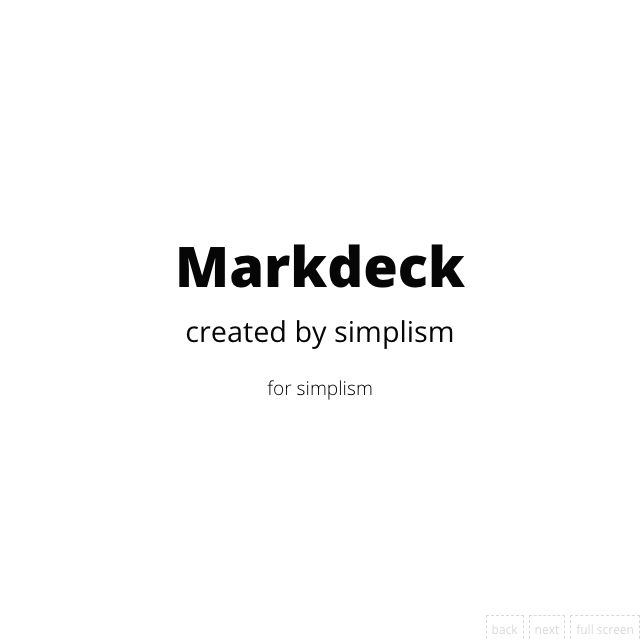
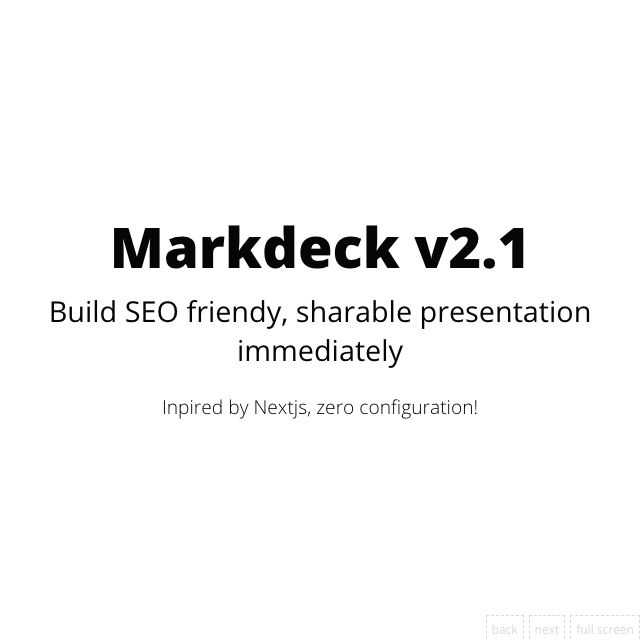
tend to deploy

Changed region(s): [[0.0625, 0.3438, 0.9375, 0.5625], [0.25, 0.5938, 0.75, 0.6562]]

diff --git a/demo/docs/deck/presentation/2.html b/demo/docs/deck/presentation/2.html
@@ -1,8 +1,8 @@
-<html lang="en"><head><meta charset="utf-8"><meta name="viewport" content="width=device-width,initial-scale=1"><meta name="referrer" content="no-referrer-when-downgrade"><title>Presentation | 2</title><meta property="og:type" content="article"><meta property="og:title" content="Presentation | 2"><meta property="og:site_name" content="markdeck"><meta property="og:image" content="https://raw.githubusercontent.com/amazingandyyy/markdeck/master/demo/docs/deck/presentation/meta/2.jpeg?1565638490806"><meta property="og:image:type" content="image/png"><meta name="twitter:card" content="summary_large_image"><meta name="twitter:image" content="https://raw.githubusercontent.com/amazingandyyy/markdeck/master/demo/docs/deck/presentation/meta/2.jpeg?1565638490806"><meta name="twitter:title" content="Presentation | 2"><meta property="article:modified_time" content="Mon Aug 12 2019 12:34:50 GMT-0700 (Pacific Daylight Time)"><meta property="article:publisher" content="https://amazingandyyy.com/markdeck"><meta name="twitter:site" content="@markdeck"><meta name="twitter:creator" content="@markdeck"><meta property="og:image:width" content="640"><meta property="og:image:height" content="640"><meta property="og:description" content="# Markdeck
+<html lang="en"><head><meta charset="utf-8"><meta name="viewport" content="width=device-width,initial-scale=1"><meta name="referrer" content="no-referrer-when-downgrade"><title>Presentation | 2</title><meta property="og:type" content="article"><meta property="og:title" content="Presentation | 2"><meta property="og:site_name" content="markdeck"><meta property="og:image" content="https://raw.githubusercontent.com/amazingandyyy/markdeck/master/demo/docs/deck/presentation/meta/2.jpeg?1565638773024"><meta property="og:image:type" content="image/png"><meta name="twitter:card" content="summary_large_image"><meta name="twitter:image" content="https://raw.githubusercontent.com/amazingandyyy/markdeck/master/demo/docs/deck/presentation/meta/2.jpeg?1565638773024"><meta name="twitter:title" content="Presentation | 2"><meta property="article:modified_time" content="Mon Aug 12 2019 12:39:33 GMT-0700 (Pacific Daylight Time)"><meta property="article:publisher" content="https://amazingandyyy.com/markdeck"><meta name="twitter:site" content="@markdeck"><meta name="twitter:creator" content="@markdeck"><meta property="og:image:width" content="640"><meta property="og:image:height" content="640"><meta property="og:description" content="# Markdeck v2.1
 
-## created by simplism
+## Build SEO friendy, sharable presentation immediately
  
-for simplism
+Inpired by Nextjs, zero configuration!
 
 ---
 
@@ -16,6 +16,16 @@ not
 
 ---
 
+## zero configuration
+
+```shell
+$ npm i -g @amazingandyyy/markdeck
+$ deck init
+$ deck
+```
+
+---
+
 *build by*
 
 # Andy
@@ -24,15 +34,6 @@ not
 
 [Github](https://github.com/amazingandyyy) *or* [Website](https://amazingandyyy.com)
 
----
-
-## zero configuration
-
-```shell
-$ npm i -g @amazingandyyy/markdeck
-$ deck init
-$ deck
-```
 ---
 
 Open Source On
@@ -66,4 +67,7 @@ Open Source On
             function goForward(loc) {
               const url = getCurrentPath()+"/"+loc;
               window.location.href = url;
-            }</script></head><body id="page-2"><div id="displayer"><div><p><em>build by</em></p><h1 id="andy">Andy</h1><p><img src="images/profile.jpg" alt="image"></p><p><a href="https://github.com/amazingandyyy">Github</a> <em>or</em> <a href="https://amazingandyyy.com">Website</a></p></div></div><div id="btn-container"><a class="btn" onclick='goBack("1.html")'>back</a> <a class="btn" onclick='goForward("3.html")'>next</a> <a class="btn" onclick="toggleFullScreen()">full screen</a></div></body></html>
+            }</script></head><body id="page-2"><div id="displayer"><div><h2 id="zeroconfiguration">zero configuration</h2><pre><code class="shell language-shell">$ npm i -g @amazingandyyy/markdeck
+$ deck init
+$ deck
+</code></pre></div></div><div id="btn-container"><a class="btn" onclick='goBack("1.html")'>back</a> <a class="btn" onclick='goForward("3.html")'>next</a> <a class="btn" onclick="toggleFullScreen()">full screen</a></div></body></html>

diff --git a/demo/docs/deck/presentation/3.html b/demo/docs/deck/presentation/3.html
@@ -1,8 +1,8 @@
-<html lang="en"><head><meta charset="utf-8"><meta name="viewport" content="width=device-width,initial-scale=1"><meta name="referrer" content="no-referrer-when-downgrade"><title>Presentation | 3</title><meta property="og:type" content="article"><meta property="og:title" content="Presentation | 3"><meta property="og:site_name" content="markdeck"><meta property="og:image" content="https://raw.githubusercontent.com/amazingandyyy/markdeck/master/demo/docs/deck/presentation/meta/3.jpeg?1565638490810"><meta property="og:image:type" content="image/png"><meta name="twitter:card" content="summary_large_image"><meta name="twitter:image" content="https://raw.githubusercontent.com/amazingandyyy/markdeck/master/demo/docs/deck/presentation/meta/3.jpeg?1565638490810"><meta name="twitter:title" content="Presentation | 3"><meta property="article:modified_time" content="Mon Aug 12 2019 12:34:50 GMT-0700 (Pacific Daylight Time)"><meta property="article:publisher" content="https://amazingandyyy.com/markdeck"><meta name="twitter:site" content="@markdeck"><meta name="twitter:creator" content="@markdeck"><meta property="og:image:width" content="640"><meta property="og:image:height" content="640"><meta property="og:description" content="# Markdeck
+<html lang="en"><head><meta charset="utf-8"><meta name="viewport" content="width=device-width,initial-scale=1"><meta name="referrer" content="no-referrer-when-downgrade"><title>Presentation | 3</title><meta property="og:type" content="article"><meta property="og:title" content="Presentation | 3"><meta property="og:site_name" content="markdeck"><meta property="og:image" content="https://raw.githubusercontent.com/amazingandyyy/markdeck/master/demo/docs/deck/presentation/meta/3.jpeg?1565638773029"><meta property="og:image:type" content="image/png"><meta name="twitter:card" content="summary_large_image"><meta name="twitter:image" content="https://raw.githubusercontent.com/amazingandyyy/markdeck/master/demo/docs/deck/presentation/meta/3.jpeg?1565638773029"><meta name="twitter:title" content="Presentation | 3"><meta property="article:modified_time" content="Mon Aug 12 2019 12:39:33 GMT-0700 (Pacific Daylight Time)"><meta property="article:publisher" content="https://amazingandyyy.com/markdeck"><meta name="twitter:site" content="@markdeck"><meta name="twitter:creator" content="@markdeck"><meta property="og:image:width" content="640"><meta property="og:image:height" content="640"><meta property="og:description" content="# Markdeck v2.1
 
-## created by simplism
+## Build SEO friendy, sharable presentation immediately
  
-for simplism
+Inpired by Nextjs, zero configuration!
 
 ---
 
@@ -16,6 +16,16 @@ not
 
 ---
 
+## zero configuration
+
+```shell
+$ npm i -g @amazingandyyy/markdeck
+$ deck init
+$ deck
+```
+
+---
+
 *build by*
 
 # Andy
@@ -24,15 +34,6 @@ not
 
 [Github](https://github.com/amazingandyyy) *or* [Website](https://amazingandyyy.com)
 
----
-
-## zero configuration
-
-```shell
-$ npm i -g @amazingandyyy/markdeck
-$ deck init
-$ deck
-```
 ---
 
 Open Source On
@@ -66,7 +67,4 @@ Open Source On
             function goForward(loc) {
               const url = getCurrentPath()+"/"+loc;
               window.location.href = url;
-            }</script></head><body id="page-3"><div id="displayer"><div><h2 id="zeroconfiguration">zero configuration</h2><pre><code class="shell language-shell">$ npm i -g @amazingandyyy/markdeck
-$ deck init
-$ deck
-</code></pre></div></div><div id="btn-container"><a class="btn" onclick='goBack("2.html")'>back</a> <a class="btn" onclick='goForward("4.html")'>next</a> <a class="btn" onclick="toggleFullScreen()">full screen</a></div></body></html>
+            }</script></head><body id="page-3"><div id="displayer"><div><p><em>build by</em></p><h1 id="andy">Andy</h1><p><img src="images/profile.jpg" alt="image"></p><p><a href="https://github.com/amazingandyyy">Github</a> <em>or</em> <a href="https://amazingandyyy.com">Website</a></p></div></div><div id="btn-container"><a class="btn" onclick='goBack("2.html")'>back</a> <a class="btn" onclick='goForward("4.html")'>next</a> <a class="btn" onclick="toggleFullScreen()">full screen</a></div></body></html>

diff --git a/demo/docs/deck/presentation/index.html b/demo/docs/deck/presentation/index.html
@@ -1,8 +1,8 @@
-<html lang="en"><head><meta charset="utf-8"><meta name="viewport" content="width=device-width,initial-scale=1"><meta name="referrer" content="no-referrer-when-downgrade"><title>Presentation | Welcome</title><meta property="og:type" content="article"><meta property="og:title" content="Presentation | Welcome"><meta property="og:site_name" content="markdeck"><meta property="og:image" content="https://raw.githubusercontent.com/amazingandyyy/markdeck/master/demo/docs/deck/presentation/meta/index.jpeg?1565638490776"><meta property="og:image:type" content="image/png"><meta name="twitter:card" content="summary_large_image"><meta name="twitter:image" content="https://raw.githubusercontent.com/amazingandyyy/markdeck/master/demo/docs/deck/presentation/meta/index.jpeg?1565638490776"><meta name="twitter:title" content="Presentation | Welcome"><meta property="article:modified_time" content="Mon Aug 12 2019 12:34:50 GMT-0700 (Pacific Daylight Time)"><meta property="article:publisher" content="https://amazingandyyy.com/markdeck"><meta name="twitter:site" content="@markdeck"><meta name="twitter:creator" content="@markdeck"><meta property="og:image:width" content="640"><meta property="og:image:height" content="640"><meta property="og:description" content="# Markdeck
+<html lang="en"><head><meta charset="utf-8"><meta name="viewport" content="width=device-width,initial-scale=1"><meta name="referrer" content="no-referrer-when-downgrade"><title>Presentation | Welcome</title><meta property="og:type" content="article"><meta property="og:title" content="Presentation | Welcome"><meta property="og:site_name" content="markdeck"><meta property="og:image" content="https://raw.githubusercontent.com/amazingandyyy/markdeck/master/demo/docs/deck/presentation/meta/index.jpeg?1565638772988"><meta property="og:image:type" content="image/png"><meta name="twitter:card" content="summary_large_image"><meta name="twitter:image" content="https://raw.githubusercontent.com/amazingandyyy/markdeck/master/demo/docs/deck/presentation/meta/index.jpeg?1565638772988"><meta name="twitter:title" content="Presentation | Welcome"><meta property="article:modified_time" content="Mon Aug 12 2019 12:39:32 GMT-0700 (Pacific Daylight Time)"><meta property="article:publisher" content="https://amazingandyyy.com/markdeck"><meta name="twitter:site" content="@markdeck"><meta name="twitter:creator" content="@markdeck"><meta property="og:image:width" content="640"><meta property="og:image:height" content="640"><meta property="og:description" content="# Markdeck v2.1
 
-## created by simplism
+## Build SEO friendy, sharable presentation immediately
  
-for simplism
+Inpired by Nextjs, zero configuration!
 
 ---
 
@@ -16,6 +16,16 @@ not
 
 ---
 
+## zero configuration
+
+```shell
+$ npm i -g @amazingandyyy/markdeck
+$ deck init
+$ deck
+```
+
+---
+
 *build by*
 
 # Andy
@@ -24,15 +34,6 @@ not
 
 [Github](https://github.com/amazingandyyy) *or* [Website](https://amazingandyyy.com)
 
----
-
-## zero configuration
-
-```shell
-$ npm i -g @amazingandyyy/markdeck
-$ deck init
-$ deck
-```
 ---
 
 Open Source On
@@ -66,4 +67,4 @@ Open Source On
             function goForward(loc) {
               const url = getCurrentPath()+"/"+loc;
               window.location.href = url;
-            }</script></head><body id="page-0"><div id="displayer"><div><h1 id="markdeck">Markdeck</h1><h2 id="createdbysimplism">created by simplism</h2><p>for simplism</p></div></div><div id="btn-container"><a class="btn" onclick='goBack("index.html")'>back</a> <a class="btn" onclick='goForward("1.html")'>next</a> <a class="btn" onclick="toggleFullScreen()">full screen</a></div></body></html>
+            }</script></head><body id="page-0"><div id="displayer"><div><h1 id="markdeckv21">Markdeck v2.1</h1><h2 id="buildseofriendysharablepresentationimmediately">Build SEO friendy, sharable presentation immediately</h2><p>Inpired by Nextjs, zero configuration!</p></div></div><div id="btn-container"><a class="btn" onclick='goBack("index.html")'>back</a> <a class="btn" onclick='goForward("1.html")'>next</a> <a class="btn" onclick="toggleFullScreen()">full screen</a></div></body></html>

diff --git a/demo/docs/deck/presentation/1.html b/demo/docs/deck/presentation/1.html
@@ -1,8 +1,8 @@
-<html lang="en"><head><meta charset="utf-8"><meta name="viewport" content="width=device-width,initial-scale=1"><meta name="referrer" content="no-referrer-when-downgrade"><title>Presentation | 1</title><meta property="og:type" content="article"><meta property="og:title" content="Presentation | 1"><meta property="og:site_name" content="markdeck"><meta property="og:image" content="https://raw.githubusercontent.com/amazingandyyy/markdeck/master/demo/docs/deck/presentation/meta/1.jpeg?1565638490802"><meta property="og:image:type" content="image/png"><meta name="twitter:card" content="summary_large_image"><meta name="twitter:image" content="https://raw.githubusercontent.com/amazingandyyy/markdeck/master/demo/docs/deck/presentation/meta/1.jpeg?1565638490802"><meta name="twitter:title" content="Presentation | 1"><meta property="article:modified_time" content="Mon Aug 12 2019 12:34:50 GMT-0700 (Pacific Daylight Time)"><meta property="article:publisher" content="https://amazingandyyy.com/markdeck"><meta name="twitter:site" content="@markdeck"><meta name="twitter:creator" content="@markdeck"><meta property="og:image:width" content="640"><meta property="og:image:height" content="640"><meta property="og:description" content="# Markdeck
+<html lang="en"><head><meta charset="utf-8"><meta name="viewport" content="width=device-width,initial-scale=1"><meta name="referrer" content="no-referrer-when-downgrade"><title>Presentation | 1</title><meta property="og:type" content="article"><meta property="og:title" content="Presentation | 1"><meta property="og:site_name" content="markdeck"><meta property="og:image" content="https://raw.githubusercontent.com/amazingandyyy/markdeck/master/demo/docs/deck/presentation/meta/1.jpeg?1565638773019"><meta property="og:image:type" content="image/png"><meta name="twitter:card" content="summary_large_image"><meta name="twitter:image" content="https://raw.githubusercontent.com/amazingandyyy/markdeck/master/demo/docs/deck/presentation/meta/1.jpeg?1565638773019"><meta name="twitter:title" content="Presentation | 1"><meta property="article:modified_time" content="Mon Aug 12 2019 12:39:33 GMT-0700 (Pacific Daylight Time)"><meta property="article:publisher" content="https://amazingandyyy.com/markdeck"><meta name="twitter:site" content="@markdeck"><meta name="twitter:creator" content="@markdeck"><meta property="og:image:width" content="640"><meta property="og:image:height" content="640"><meta property="og:description" content="# Markdeck v2.1
 
-## created by simplism
+## Build SEO friendy, sharable presentation immediately
  
-for simplism
+Inpired by Nextjs, zero configuration!
 
 ---
 
@@ -16,6 +16,16 @@ not
 
 ---
 
+## zero configuration
+
+```shell
+$ npm i -g @amazingandyyy/markdeck
+$ deck init
+$ deck
+```
+
+---
+
 *build by*
 
 # Andy
@@ -24,15 +34,6 @@ not
 
 [Github](https://github.com/amazingandyyy) *or* [Website](https://amazingandyyy.com)
 
----
-
-## zero configuration
-
-```shell
-$ npm i -g @amazingandyyy/markdeck
-$ deck init
-$ deck
-```
 ---
 
 Open Source On

diff --git a/demo/docs/deck/presentation/4.html b/demo/docs/deck/presentation/4.html
@@ -1,8 +1,8 @@
-<html lang="en"><head><meta charset="utf-8"><meta name="viewport" content="width=device-width,initial-scale=1"><meta name="referrer" content="no-referrer-when-downgrade"><title>Presentation | 4</title><meta property="og:type" content="article"><meta property="og:title" content="Presentation | 4"><meta property="og:site_name" content="markdeck"><meta property="og:image" content="https://raw.githubusercontent.com/amazingandyyy/markdeck/master/demo/docs/deck/presentation/meta/4.jpeg?1565638490814"><meta property="og:image:type" content="image/png"><meta name="twitter:card" content="summary_large_image"><meta name="twitter:image" content="https://raw.githubusercontent.com/amazingandyyy/markdeck/master/demo/docs/deck/presentation/meta/4.jpeg?1565638490814"><meta name="twitter:title" content="Presentation | 4"><meta property="article:modified_time" content="Mon Aug 12 2019 12:34:50 GMT-0700 (Pacific Daylight Time)"><meta property="article:publisher" content="https://amazingandyyy.com/markdeck"><meta name="twitter:site" content="@markdeck"><meta name="twitter:creator" content="@markdeck"><meta property="og:image:width" content="640"><meta property="og:image:height" content="640"><meta property="og:description" content="# Markdeck
+<html lang="en"><head><meta charset="utf-8"><meta name="viewport" content="width=device-width,initial-scale=1"><meta name="referrer" content="no-referrer-when-downgrade"><title>Presentation | 4</title><meta property="og:type" content="article"><meta property="og:title" content="Presentation | 4"><meta property="og:site_name" content="markdeck"><meta property="og:image" content="https://raw.githubusercontent.com/amazingandyyy/markdeck/master/demo/docs/deck/presentation/meta/4.jpeg?1565638773034"><meta property="og:image:type" content="image/png"><meta name="twitter:card" content="summary_large_image"><meta name="twitter:image" content="https://raw.githubusercontent.com/amazingandyyy/markdeck/master/demo/docs/deck/presentation/meta/4.jpeg?1565638773034"><meta name="twitter:title" content="Presentation | 4"><meta property="article:modified_time" content="Mon Aug 12 2019 12:39:33 GMT-0700 (Pacific Daylight Time)"><meta property="article:publisher" content="https://amazingandyyy.com/markdeck"><meta name="twitter:site" content="@markdeck"><meta name="twitter:creator" content="@markdeck"><meta property="og:image:width" content="640"><meta property="og:image:height" content="640"><meta property="og:description" content="# Markdeck v2.1
 
-## created by simplism
+## Build SEO friendy, sharable presentation immediately
  
-for simplism
+Inpired by Nextjs, zero configuration!
 
 ---
 
@@ -16,6 +16,16 @@ not
 
 ---
 
+## zero configuration
+
+```shell
+$ npm i -g @amazingandyyy/markdeck
+$ deck init
+$ deck
+```
+
+---
+
 *build by*
 
 # Andy
@@ -24,15 +34,6 @@ not
 
 [Github](https://github.com/amazingandyyy) *or* [Website](https://amazingandyyy.com)
 
----
-
-## zero configuration
-
-```shell
-$ npm i -g @amazingandyyy/markdeck
-$ deck init
-$ deck
-```
 ---
 
 Open Source On

diff --git a/demo/docs/deck/presentation/5.html b/demo/docs/deck/presentation/5.html
@@ -1,8 +1,8 @@
-<html lang="en"><head><meta charset="utf-8"><meta name="viewport" content="width=device-width,initial-scale=1"><meta name="referrer" content="no-referrer-when-downgrade"><title>Presentation | 5</title><meta property="og:type" content="article"><meta property="og:title" content="Presentation | 5"><meta property="og:site_name" content="markdeck"><meta property="og:image" content="https://raw.githubusercontent.com/amazingandyyy/markdeck/master/demo/docs/deck/presentation/meta/5.jpeg?1565638490819"><meta property="og:image:type" content="image/png"><meta name="twitter:card" content="summary_large_image"><meta name="twitter:image" content="https://raw.githubusercontent.com/amazingandyyy/markdeck/master/demo/docs/deck/presentation/meta/5.jpeg?1565638490819"><meta name="twitter:title" content="Presentation | 5"><meta property="article:modified_time" content="Mon Aug 12 2019 12:34:50 GMT-0700 (Pacific Daylight Time)"><meta property="article:publisher" content="https://amazingandyyy.com/markdeck"><meta name="twitter:site" content="@markdeck"><meta name="twitter:creator" content="@markdeck"><meta property="og:image:width" content="640"><meta property="og:image:height" content="640"><meta property="og:description" content="# Markdeck
+<html lang="en"><head><meta charset="utf-8"><meta name="viewport" content="width=device-width,initial-scale=1"><meta name="referrer" content="no-referrer-when-downgrade"><title>Presentation | 5</title><meta property="og:type" content="article"><meta property="og:title" content="Presentation | 5"><meta property="og:site_name" content="markdeck"><meta property="og:image" content="https://raw.githubusercontent.com/amazingandyyy/markdeck/master/demo/docs/deck/presentation/meta/5.jpeg?1565638773039"><meta property="og:image:type" content="image/png"><meta name="twitter:card" content="summary_large_image"><meta name="twitter:image" content="https://raw.githubusercontent.com/amazingandyyy/markdeck/master/demo/docs/deck/presentation/meta/5.jpeg?1565638773039"><meta name="twitter:title" content="Presentation | 5"><meta property="article:modified_time" content="Mon Aug 12 2019 12:39:33 GMT-0700 (Pacific Daylight Time)"><meta property="article:publisher" content="https://amazingandyyy.com/markdeck"><meta name="twitter:site" content="@markdeck"><meta name="twitter:creator" content="@markdeck"><meta property="og:image:width" content="640"><meta property="og:image:height" content="640"><meta property="og:description" content="# Markdeck v2.1
 
-## created by simplism
+## Build SEO friendy, sharable presentation immediately
  
-for simplism
+Inpired by Nextjs, zero configuration!
 
 ---
 
@@ -16,6 +16,16 @@ not
 
 ---
 
+## zero configuration
+
+```shell
+$ npm i -g @amazingandyyy/markdeck
+$ deck init
+$ deck
+```
+
+---
+
 *build by*
 
 # Andy
@@ -24,15 +34,6 @@ not
 
 [Github](https://github.com/amazingandyyy) *or* [Website](https://amazingandyyy.com)
 
----
-
-## zero configuration
-
-```shell
-$ npm i -g @amazingandyyy/markdeck
-$ deck init
-$ deck
-```
 ---
 
 Open Source On

diff --git a/src/export/prod.compiler.js b/src/export/prod.compiler.js
@@ -49,10 +49,6 @@ const compiler = ({flags, outputPath, filename, markdown, callback}) => {
       const outputHTMLPath = path.join(outputPath, `${htmlFileName}`)
       flags.init && console.log(`created ${outputHTMLPath}`)
       const file = new Printer(outputHTMLPath)
-      // 'https://raw.githubusercontent.com/amazingandyyy/markdeck/master/demo/docs/deck/presentation/meta/index.jpeg'
-      // 'https:/github.com/amazingandyyy/markdeck/raw/master/demo/docs/deck/presentation/meta/index.jpeg'
-      // 'https://github.com/amazingandyyy/markdeck/master/demo/docs'
-      // 'https://github.com/amazingandyyy/markdeck/tree/master/demo/docs'
       const productionRootURL = flags.url?flags.url:'https://github.com/amazingandyyy/markdeck/tree/master/demo/docs';
       const productionImageURLPending = path.join(productionRootURL.replace('https://github.com/', 'raw.githubusercontent.com/').replace('/tree', ''), outputPath ,'meta', `${fileNamePure}.jpeg?${Date.now()}`);
       const productionImageURL = 'https://' + productionImageURLPending.replace('/docs/docs/', '/docs/')

diff --git a/demo/decks/presentation.md b/demo/decks/presentation.md
@@ -1,8 +1,8 @@
-# Markdeck
+# Markdeck v2.1
 
-## created by simplism
+## Build SEO friendy, sharable presentation immediately
  
-for simplism
+Inpired by Nextjs, zero configuration!
 
 ---
 
@@ -16,6 +16,16 @@ not
 
 ---
 
+## zero configuration
+
+```shell
+$ npm i -g @amazingandyyy/markdeck
+$ deck init
+$ deck
+```
+
+---
+
 *build by*
 
 # Andy
@@ -24,15 +34,6 @@ not
 
 [Github](https://github.com/amazingandyyy) *or* [Website](https://amazingandyyy.com)
 
----
-
-## zero configuration
-
-```shell
-$ npm i -g @amazingandyyy/markdeck
-$ deck init
-$ deck
-```
 ---
 
 Open Source On

diff --git a/src/markdeck/template/init.md b/src/markdeck/template/init.md
@@ -1,8 +1,8 @@
-# Markdeck
+# Markdeck v0.2
 
-## created by simplism
+## Build SEO friendy, sharable presentation immediately
  
-for simplism
+Inpired by Nextjs, zero configuration!
 
 ---
 
@@ -16,6 +16,16 @@ not
 
 ---
 
+## zero configuration
+
+```shell
+$ npm i -g @amazingandyyy/markdeck
+$ deck init
+$ deck
+```
+
+---
+
 *build by*
 
 # Andy
@@ -24,15 +34,6 @@ not
 
 [Github](https://github.com/amazingandyyy) *or* [Website](https://amazingandyyy.com)
 
----
-
-## zero configuration
-
-```shell
-$ npm i -g @amazingandyyy/markdeck
-$ deck init
-$ deck
-```
 ---
 
 Open Source On
